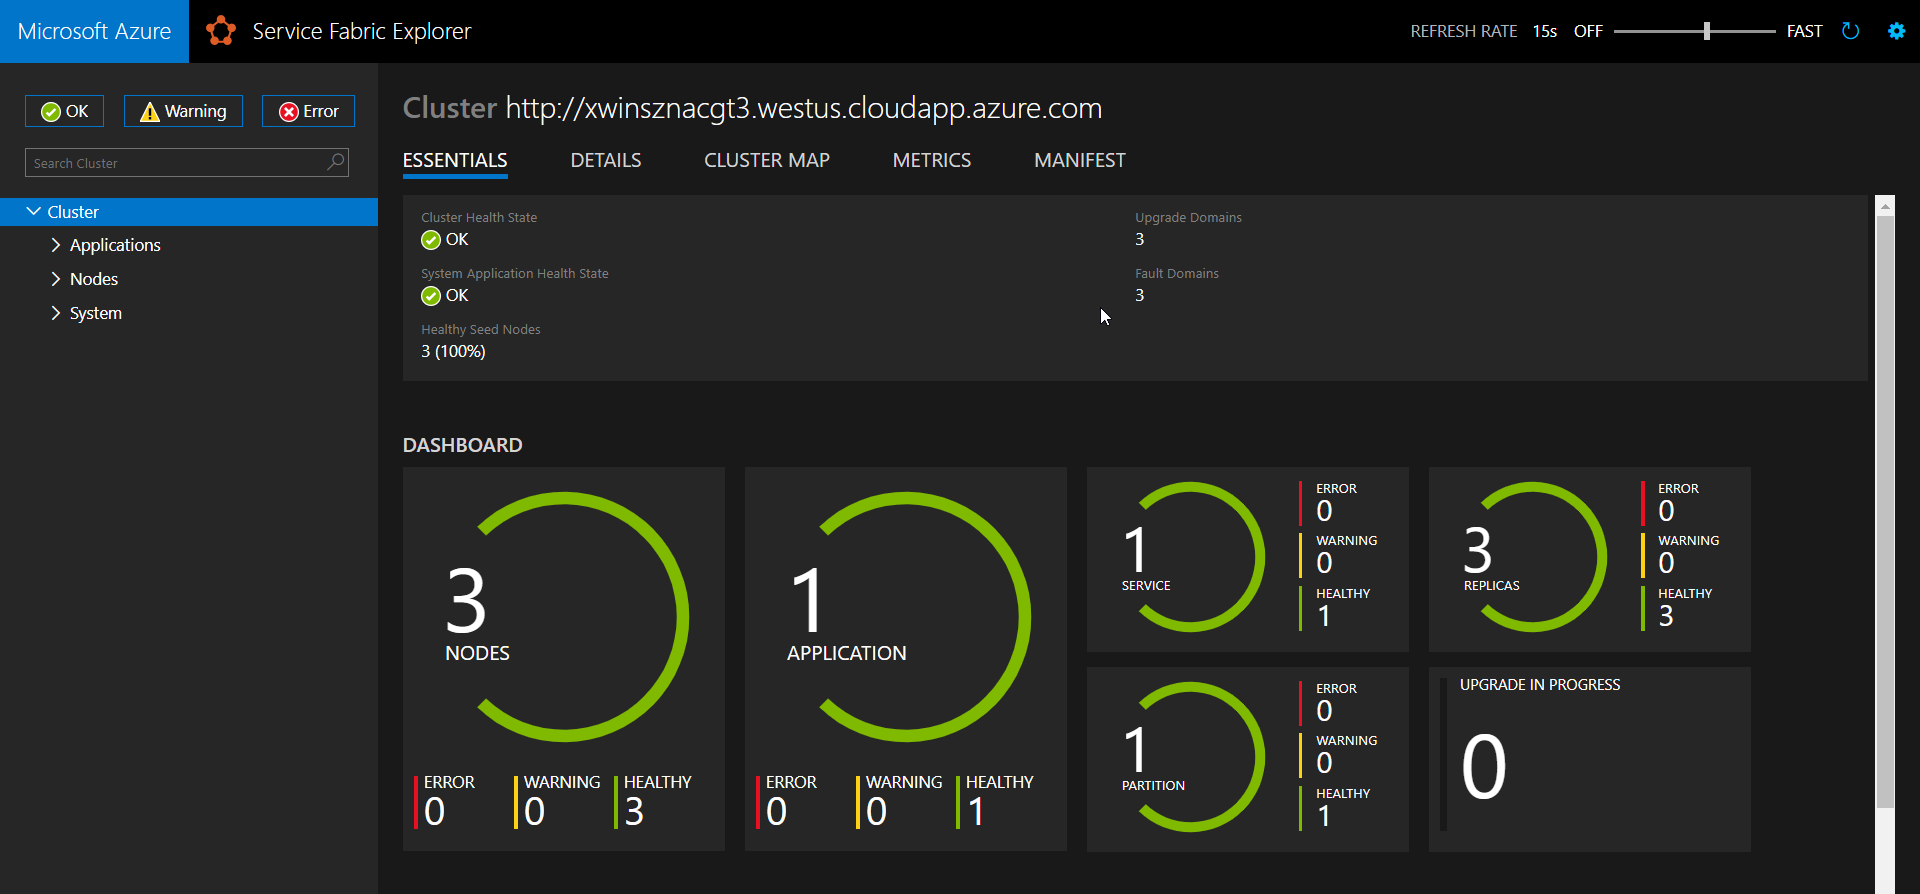
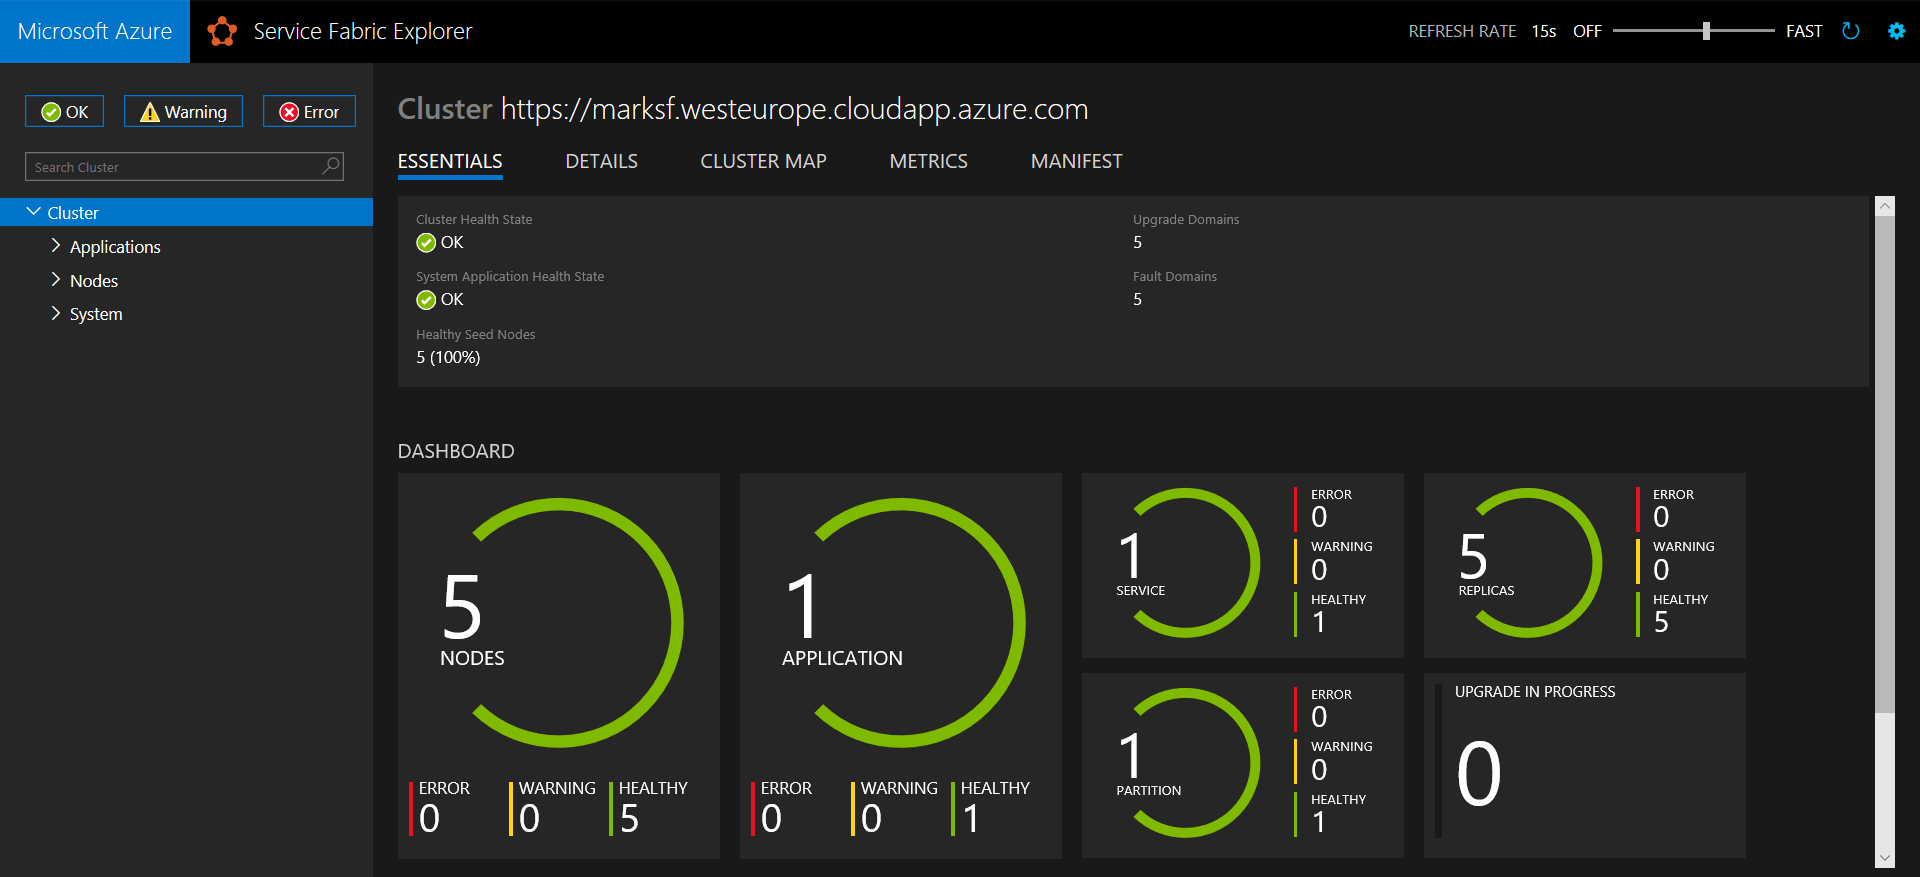
Secure Connectivity via certificates

diff --git a/sf.md b/sf.md
@@ -1,12 +1,14 @@
 # Service Fabric (Containers) - Hands-on Lab Script
 
-Mark Harrison : 1 Dec 2017
+Mark Harrison : 1 Dec 2017, updated 5 April 2018
 
 ![](Images/SF.png)
 
 ## Overview
 
 Service Fabric is a distributed systems platform that makes it easy to package, deploy, and manage scalable and reliable microservices and containers. Developers and administrators can avoid complex infrastructure problems and focus on implementing mission-critical, demanding workloads that are scalable, reliable, and manageable.
+
+In this Lab, we will deploy  a Web App to Service Fabric using a Docker container.
 
 ## Create SF cluster
 
@@ -34,17 +36,60 @@ Alternatively, create a Service Fabric cluster in Azure using the Azure Manageme
 
 This option will take some time to provision, as it needs to provision a VM scale set with 5 nodes.  The advantage over party clusters is it will not disappear after one hour.
 
-![](Images/SFAzure.png)
+![](Images/SFProvison1.png)
 
-![](Images/SFAzure2.png)
+![](Images/SFProvison2.png)
 
-![](Images/SFAzure3.png)
+![](Images/SFProvison3.png)
+
+![](Images/SFProvison4.png)
+
+![](Images/SFProvison5.png)
+
+![](Images/SFProvison6.png)
+
+![](Images/SFProvison7.png)
+
+
+## Secure Connectivity
+
+The cluster uses a single self-signed certificate for client to node security (also for node to node communication). The certificate generated during the provision cluster must be installed in the ```CurrentUser\My``` certificate store.
+
+For Option 1 (the Party Cluster) - there is a link giving the PowerShell required to install the certificate.
+
+For Option 2, as part of the provisioing screens there is a link to download the certificate.  This can be installed with the following PowerShell (amend filename appropriately) or via the MMC console app.
+
+```powershell
+$pswd = "1234"
+$pfxfilepath = "C:\Users\mharriso\Desktop\markharrisonkv-MarkHarrisonCert-20180404.pfx"
+
+Import-PfxCertificate -Exportable -CertStoreLocation Cert:\LocalMachine\My `
+ -FilePath $PfxFilePath -Password (ConvertTo-SecureString -String $pswd -AsPlainText -Force)
+```
+
+![](Images/SFCert.png)
+
+Take note of the certificate thumbprint - this will be needed when publishing from Visual Studio.
+
+![](Images/SFCert1.png)
+
+![](Images/SFCert2.png)
+
+![](Images/SFCert3.png)
+
+![](Images/SFCert4.png)
+
+![](Images/SFCert5.png)
 
 ## SF Explorer
 
 Service Fabric Explorer is a web-based tool for inspecting and managing applications and nodes in an Azure Service Fabric cluster.
 
-- To reach Service Fabric Explorer for a given cluster, navigate to <http://cluster-endpoint:19080/Explorer>
+- To reach Service Fabric Explorer, navigate to the Service Fabric connection endpoint - in the above example it would be  <https://marksf.westeurope.cloudapp.azure.com:19080/Explorer> - amend appropriately based on the name given to your cluster
+- Accept the warning (browser is not aware of the self signed certificates), and continue to the webpage.
+- Specify the certificate that was downloaded / installed. 
+
+![](Images/SFExplorerCert.png)
 
 ![](Images/SFExplorer.png)
 
@@ -104,19 +149,43 @@ Notice that the container image is specified in ServiceFabric.xml
     </Policies>
 ```
 
+If using a private container registry, then will need to specify the respository credentials.
+
+```xml
+      <ContainerHostPolicies CodePackageRef="Code" >
+        <RepositoryCredentials AccountName="markharrison" Password="password" PasswordEncrypted="false"/>
+
+      </ContainerHostPolicies>
+```
+
 ## Deployment
 
 - In the Visual Studio Solution Explorer, right click on project name and select Publish
 - Specify the Service Fabric connection endpoint - this will be on port 19000
+- Specify the certificate details 
 - Select Publish
 
 ![](Images/SFVSPublish.png)
+
+The certificate details are stored in ```cloud.xml```
+
+```xml
+  <ClusterConnectionParameters ConnectionEndpoint="marksf.westeurope.cloudapp.azure.com:19000"
+                             X509Credential="true"
+                             ServerCertThumbprint="024b89a2d21c63a7b583c89fb0b7590692efce21"
+                             FindType="FindByThumbprint"
+                             FindValue="024b89a2d21c63a7b583c89fb0b7590692efce21"
+                             StoreLocation="CurrentUser"
+                             StoreName="My" />
+```
 
 ![](Images/SFVSPublish2.png)
 
 The Service Fabric Explorer will show that 1 Application has been deployed
 
 ![](Images/SFExplorerApp.png)
+
+![](Images/SFExplorerAppLogs.png)
 
 We can now access our web application
 
